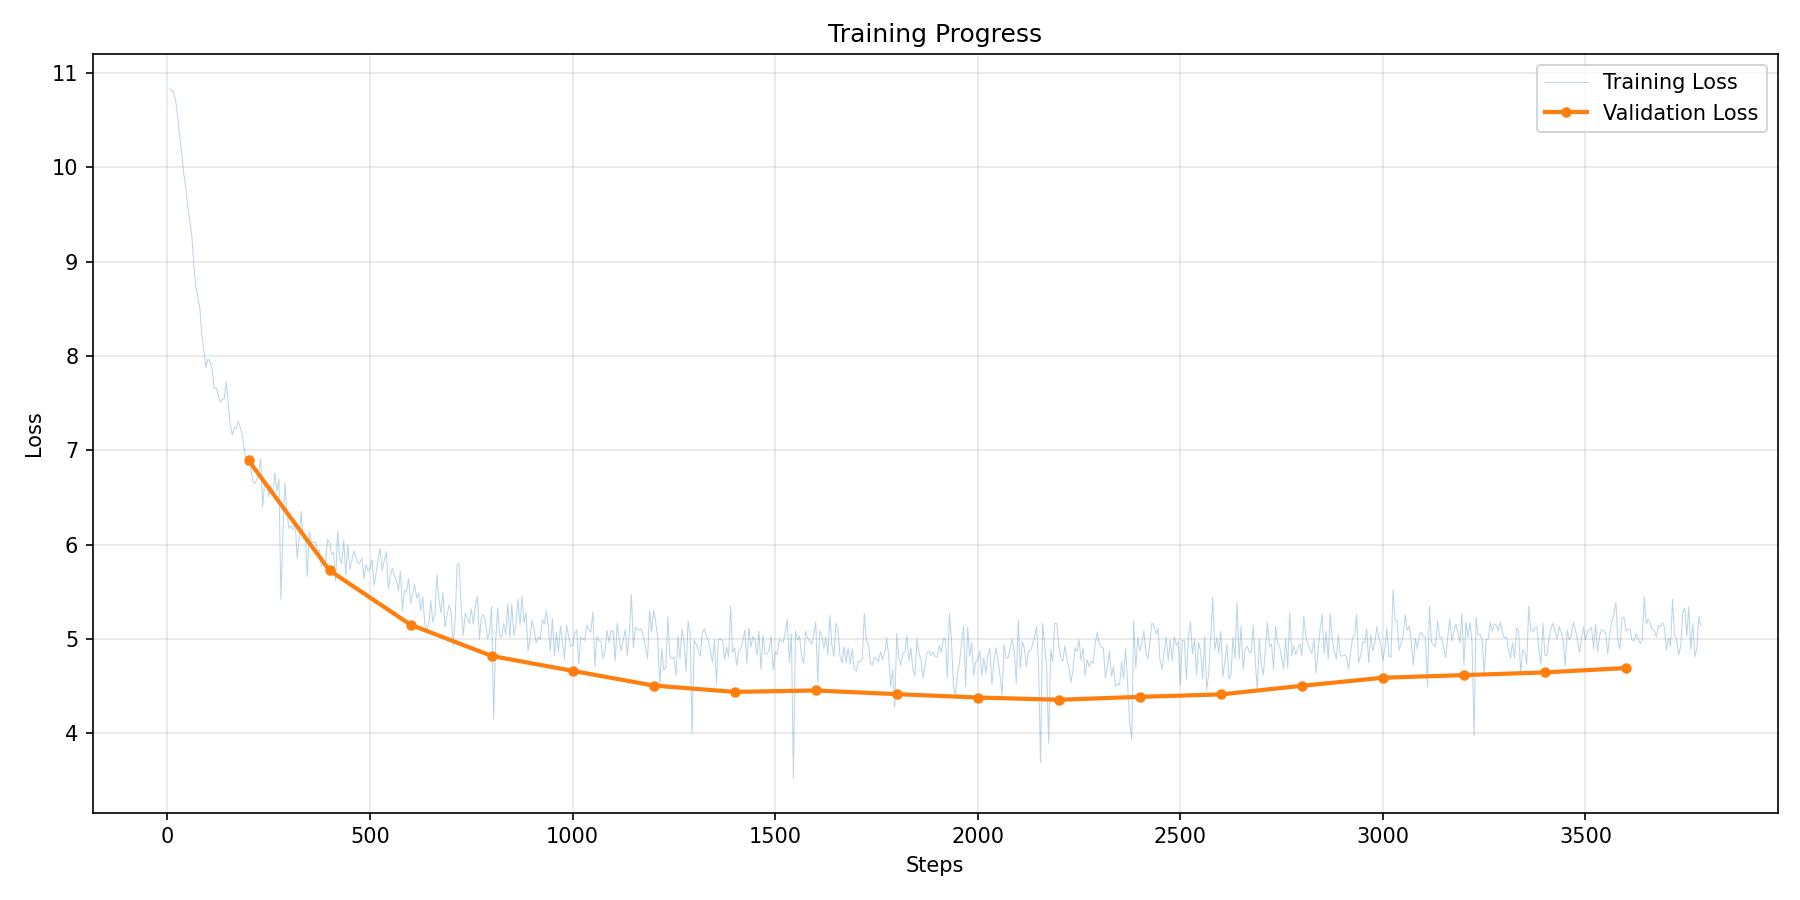
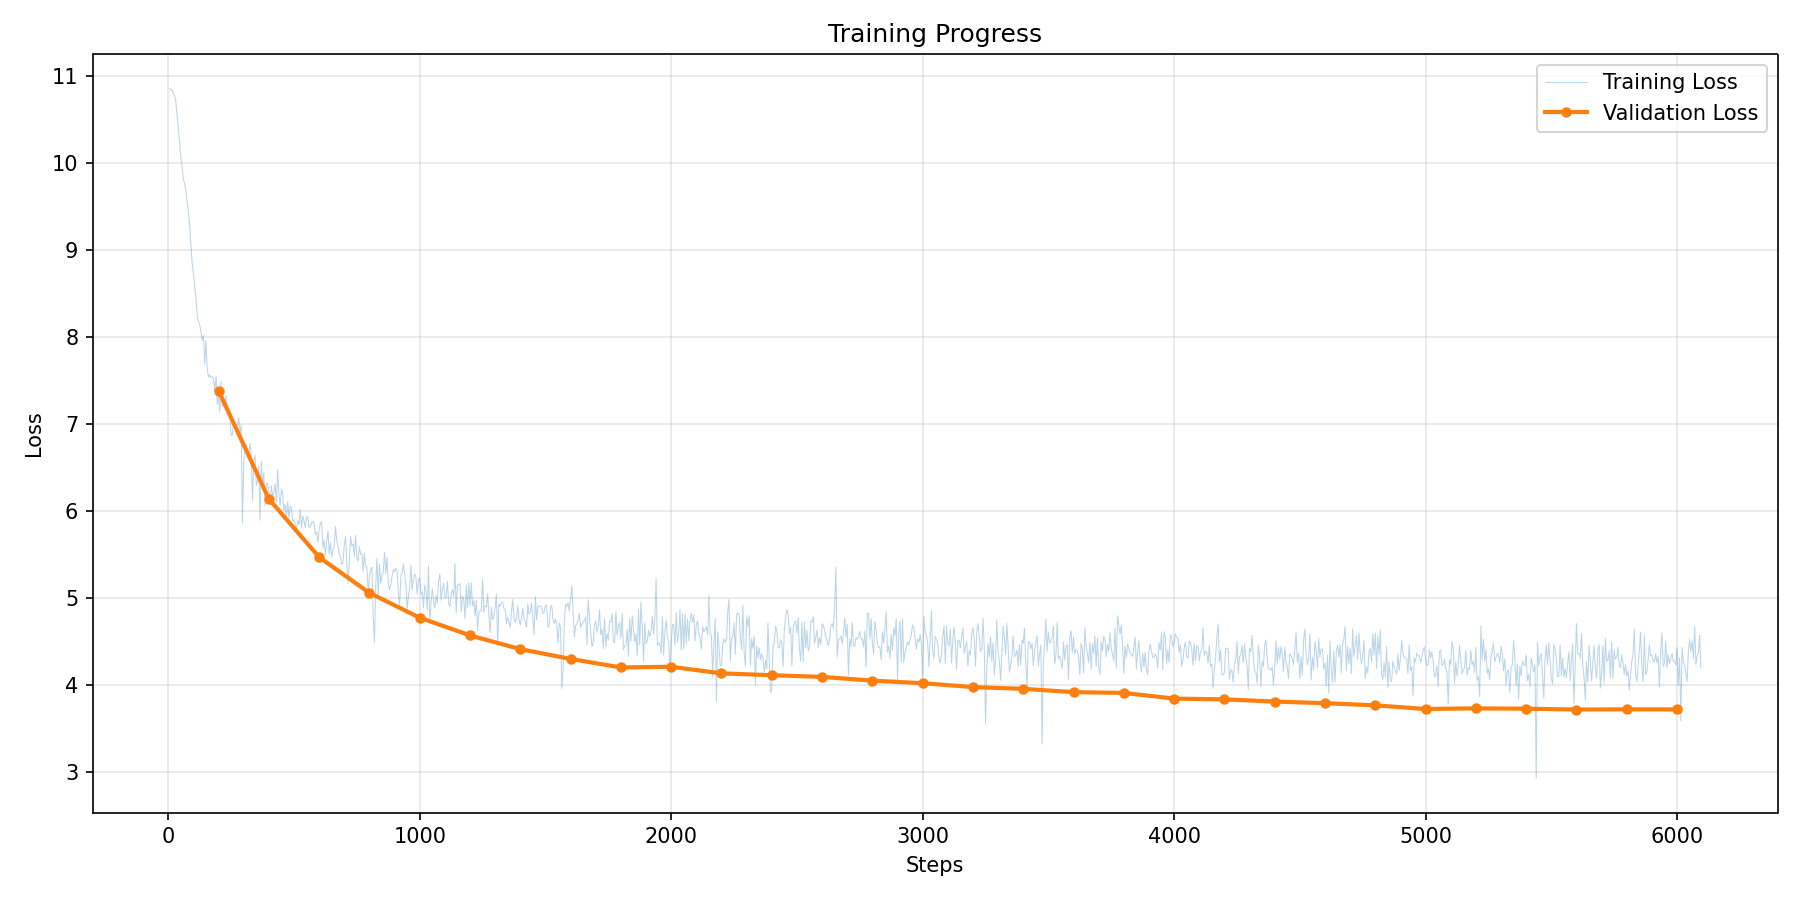
Add chat.py and graph.py; update generate.py and loss_curve.png
Amp-Thread-ID: https://ampcode.com/threads/T-019c5e38-5714-74bf-8ea0-f44ccb53756e

diff --git a/chat.py b/chat.py
@@ -1,0 +1,302 @@
+#!/usr/bin/env python3
+"""
+Inference script for Ternary Transformer.
+
+Usage:
+    # Single prompt
+    python chat.py --checkpoint checkpoints/500m/step_5800 --prompt "Once upon a time"
+
+    # Interactive chat
+    python chat.py --checkpoint checkpoints/500m/step_5800 --interactive
+
+    # With sampling params
+    python chat.py --checkpoint checkpoints/500m/step_5800 --prompt "Hello" \
+        --temperature 0.7 --top-p 0.9 --top-k 50 --max-tokens 256
+"""
+
+import argparse
+import sys
+import time
+
+import mlx.core as mx
+
+from src.config import ModelConfig
+from src.model import TernaryTransformer, create_model
+from src.checkpoint import load_checkpoint
+from data.dataloader import get_tokenizer
+
+
+# GPT-2 end-of-text token
+EOT_TOKEN = 50256
+
+
+def load_model(checkpoint_path: str) -> TernaryTransformer:
+    """Load model from a checkpoint directory."""
+    state = load_checkpoint(checkpoint_path)
+    config = state["config"]
+    model = create_model(config)
+    load_checkpoint(checkpoint_path, model=model)
+
+    # Respect the training config's ternary schedule — if ternary was never
+    # activated during training, don't enable it at inference either.
+    training_config = state.get("training_config")
+    step = state.get("step", 0)
+    if training_config and step < training_config.ternary_skip_steps:
+        model.set_ternary_enabled(False)
+    else:
+        model.set_ternary_enabled(True)
+        model.set_ternary_strength(1.0)
+
+    return model, config
+
+
+def generate_streaming(
+    model: TernaryTransformer,
+    tokenizer,
+    prompt: str,
+    max_new_tokens: int,
+    temperature: float = 0.3,
+    top_k: int = 40,
+    top_p: float = 0.9,
+):
+    """Generate tokens one at a time, printing as they're produced."""
+    # Print prompt in dim color, then generate in default color
+    sys.stdout.write(f"\033[2m{prompt}\033[0m")
+    sys.stdout.flush()
+
+    input_ids = tokenizer.encode(prompt)
+    tokens = mx.array([input_ids])
+    cache = None
+
+    # Prefill: run the full prompt through the model
+    logits, cache = model(tokens, cache=None, training=False)
+    mx.eval(logits, cache)
+
+    generated_tokens = []
+
+    for _ in range(max_new_tokens):
+        # Sample from the last position's logits
+        next_logits = logits[:, -1, :].astype(mx.float32)
+
+        # Temperature
+        if temperature > 0:
+            next_logits = next_logits / temperature
+        else:
+            # Greedy
+            next_token = mx.argmax(next_logits, axis=-1, keepdims=True)
+            token_id = next_token.item()
+            if token_id == EOT_TOKEN:
+                break
+            generated_tokens.append(token_id)
+            sys.stdout.write(tokenizer.decode([token_id]))
+            sys.stdout.flush()
+            tokens = next_token
+            logits, cache = model(tokens, cache=cache, training=False)
+            mx.eval(logits, cache)
+            continue
+
+        # Top-k filtering
+        if top_k > 0:
+            k = min(top_k, next_logits.shape[-1])
+            top_k_vals = mx.topk(next_logits, k=k)
+            # Threshold: everything below the k-th largest gets -inf
+            threshold = mx.min(top_k_vals, axis=-1, keepdims=True)
+            next_logits = mx.where(next_logits < threshold, float("-inf"), next_logits)
+
+        # Top-p (nucleus) filtering
+        if top_p < 1.0:
+            sorted_indices = mx.argsort(next_logits, axis=-1)[:, ::-1]
+            sorted_logits = mx.take_along_axis(next_logits, sorted_indices, axis=-1)
+            sorted_probs = mx.softmax(sorted_logits, axis=-1)
+            cumsum_probs = mx.cumsum(sorted_probs, axis=-1)
+
+            # Mask tokens whose cumulative prob exceeds top_p (keep at least 1)
+            sorted_mask = mx.concatenate(
+                [mx.zeros_like(cumsum_probs[:, :1]), (cumsum_probs[:, :-1] >= top_p)],
+                axis=-1,
+            )
+            sorted_logits = mx.where(sorted_mask, float("-inf"), sorted_logits)
+
+            # Unsort back to original vocab order
+            unsort_indices = mx.argsort(sorted_indices, axis=-1)
+            next_logits = mx.take_along_axis(sorted_logits, unsort_indices, axis=-1)
+
+        # Sample
+        probs = mx.softmax(next_logits, axis=-1)
+        next_token = mx.random.categorical(mx.log(probs + 1e-10))
+        next_token = next_token[:, None]
+        token_id = next_token.item()
+
+        if token_id == EOT_TOKEN:
+            break
+
+        generated_tokens.append(token_id)
+        sys.stdout.write(tokenizer.decode([token_id]))
+        sys.stdout.flush()
+
+        # Next step with KV cache
+        tokens = next_token
+        logits, cache = model(tokens, cache=cache, training=False)
+        mx.eval(logits, cache)
+
+    print()  # Final newline
+    return generated_tokens
+
+
+def interactive_mode(model, tokenizer, config, args):
+    """Multi-turn interactive CLI chat."""
+    max_ctx = config.max_seq_len
+    print(f"Interactive mode (context window: {max_ctx} tokens). Type 'quit' or Ctrl-C to exit.\n")
+
+    history_tokens = []
+
+    while True:
+        try:
+            user_input = input("You: ").strip()
+        except (EOFError, KeyboardInterrupt):
+            print("\nBye!")
+            break
+
+        if not user_input:
+            continue
+        if user_input.lower() in ("quit", "exit"):
+            print("Bye!")
+            break
+
+        new_tokens = tokenizer.encode(user_input)
+        history_tokens.extend(new_tokens)
+
+        # Truncate history to fit within context window (leave room for generation)
+        max_gen = args.max_tokens if args.max_tokens else max_ctx
+        max_prompt = max_ctx - min(max_gen, max_ctx // 2)
+        if len(history_tokens) > max_prompt:
+            history_tokens = history_tokens[-max_prompt:]
+
+        print("Model: ", end="", flush=True)
+
+        tokens = mx.array([history_tokens])
+        cache = None
+        logits, cache = model(tokens, cache=None, training=False)
+        mx.eval(logits, cache)
+
+        gen_count = 0
+        gen_limit = min(max_gen, max_ctx - len(history_tokens))
+        response_tokens = []
+
+        for _ in range(gen_limit):
+            next_logits = logits[:, -1, :].astype(mx.float32)
+
+            if args.temperature > 0:
+                next_logits = next_logits / args.temperature
+            else:
+                next_token = mx.argmax(next_logits, axis=-1, keepdims=True)
+                token_id = next_token.item()
+                if token_id == EOT_TOKEN:
+                    break
+                response_tokens.append(token_id)
+                sys.stdout.write(tokenizer.decode([token_id]))
+                sys.stdout.flush()
+                logits, cache = model(next_token, cache=cache, training=False)
+                mx.eval(logits, cache)
+                gen_count += 1
+                continue
+
+            # Top-k
+            if args.top_k > 0:
+                k = min(args.top_k, next_logits.shape[-1])
+                top_k_vals = mx.topk(next_logits, k=k)
+                threshold = mx.min(top_k_vals, axis=-1, keepdims=True)
+                next_logits = mx.where(next_logits < threshold, float("-inf"), next_logits)
+
+            # Top-p
+            if args.top_p < 1.0:
+                sorted_indices = mx.argsort(next_logits, axis=-1)[:, ::-1]
+                sorted_logits = mx.take_along_axis(next_logits, sorted_indices, axis=-1)
+                sorted_probs = mx.softmax(sorted_logits, axis=-1)
+                cumsum_probs = mx.cumsum(sorted_probs, axis=-1)
+                sorted_mask = mx.concatenate(
+                    [mx.zeros_like(cumsum_probs[:, :1]), (cumsum_probs[:, :-1] >= args.top_p)],
+                    axis=-1,
+                )
+                sorted_logits = mx.where(sorted_mask, float("-inf"), sorted_logits)
+                unsort_indices = mx.argsort(sorted_indices, axis=-1)
+                next_logits = mx.take_along_axis(sorted_logits, unsort_indices, axis=-1)
+
+            probs = mx.softmax(next_logits, axis=-1)
+            next_token = mx.random.categorical(mx.log(probs + 1e-10))
+            next_token = next_token[:, None]
+            token_id = next_token.item()
+
+            if token_id == EOT_TOKEN:
+                break
+
+            response_tokens.append(token_id)
+            sys.stdout.write(tokenizer.decode([token_id]))
+            sys.stdout.flush()
+
+            logits, cache = model(next_token, cache=cache, training=False)
+            mx.eval(logits, cache)
+            gen_count += 1
+
+        print()  # Newline after response
+        history_tokens.extend(response_tokens)
+
+
+def main():
+    parser = argparse.ArgumentParser(description="Run inference with a trained Ternary Transformer")
+    parser.add_argument("--checkpoint", type=str, required=True,
+                        help="Path to checkpoint directory (e.g. checkpoints/500m/step_5800)")
+    parser.add_argument("--prompt", type=str, default=None,
+                        help="Text prompt for single-shot generation")
+    parser.add_argument("--interactive", action="store_true",
+                        help="Launch multi-turn interactive chat")
+    parser.add_argument("--temperature", type=float, default=0.3,
+                        help="Sampling temperature (default: 0.3, 0 = greedy)")
+    parser.add_argument("--top-p", type=float, default=0.9,
+                        help="Nucleus sampling threshold (default: 0.9)")
+    parser.add_argument("--top-k", type=int, default=40,
+                        help="Top-k filtering (default: 40, 0 = disabled)")
+    parser.add_argument("--max-tokens", type=int, default=None,
+                        help="Max tokens to generate (default: fill context window)")
+    args = parser.parse_args()
+
+    if not args.prompt and not args.interactive:
+        parser.error("Specify either --prompt or --interactive")
+
+    # Load model
+    print(f"Loading checkpoint from {args.checkpoint}...")
+    model, config = load_model(args.checkpoint)
+
+    total_params = model.count_parameters().get("total", 0)
+    print(f"Model loaded: {total_params / 1e6:.1f}M parameters, context {config.max_seq_len} tokens")
+
+    # Tokenizer
+    tokenizer = get_tokenizer()
+
+    # Default max tokens = full context window minus prompt
+    if args.max_tokens is None:
+        max_tokens = config.max_seq_len
+    else:
+        max_tokens = args.max_tokens
+
+    if args.interactive:
+        interactive_mode(model, tokenizer, config, args)
+    else:
+        start = time.time()
+        gen_tokens = generate_streaming(
+            model=model,
+            tokenizer=tokenizer,
+            prompt=args.prompt,
+            max_new_tokens=max_tokens,
+            temperature=args.temperature,
+            top_k=args.top_k,
+            top_p=args.top_p,
+        )
+        elapsed = time.time() - start
+        n = len(gen_tokens)
+        if n > 0:
+            print(f"\n[{n} tokens in {elapsed:.1f}s — {n / elapsed:.1f} tok/s]")
+
+
+if __name__ == "__main__":
+    main()

diff --git a/generate.py b/generate.py
@@ -22,14 +22,7 @@ from data.dataloader import get_tokenizer
 
 def sample_top_p(logits: mx.array, top_p: float) -> mx.array:
     """
-    Nucleus (top-p) sampling - FAST MLX version.
-    
-    Args:
-        logits: Shape (vocab_size,) - logits for next token
-        top_p: Cumulative probability threshold
-        
-    Returns:
-        Filtered logits with low-probability tokens set to -inf
+    Nucleus (top-p) sampling - FIXED version.
     """
     # Convert to probabilities
     probs = mx.softmax(logits, axis=-1)
@@ -41,26 +34,20 @@ def sample_top_p(logits: mx.array, top_p: float) -> mx.array:
     # Cumulative sum
     cumsum_probs = mx.cumsum(sorted_probs, axis=-1)
     
-    # Find cutoff: keep tokens until cumsum exceeds top_p
-    # But always keep at least the first token
-    cutoff_idx = mx.argmax((cumsum_probs > top_p).astype(mx.int32))
-    if cutoff_idx.item() == 0:
-        # If first token already exceeds top_p, keep it anyway
-        cutoff_idx = mx.array(1)
+    # Find where cumsum first exceeds top_p
+    # Keep all tokens UP TO AND INCLUDING this point
+    remove_mask = cumsum_probs > top_p
     
-    # Create mask for tokens to keep
-    keep_mask = mx.arange(len(probs)) <= cutoff_idx
+    # Shift right by 1 to keep the first token that crosses threshold
+    if len(remove_mask) > 1:
+        remove_mask = mx.concatenate([mx.array([False]), remove_mask[:-1]])
     
     # Apply mask in sorted order
     sorted_logits = logits[sorted_indices]
-    sorted_logits = mx.where(keep_mask, sorted_logits, -float('inf'))
+    sorted_logits = mx.where(remove_mask, -float('inf'), sorted_logits)
     
-    # Scatter back to original order using fancy indexing
-    # This is the key: we need to unsort the filtered logits
-    result = mx.zeros_like(logits) - float('inf')
-    # MLX supports scatter through index assignment in a roundabout way
-    # We'll use the fact that sorted_indices tells us where each position goes
-    scatter_indices = mx.argsort(sorted_indices)  # Inverse permutation
+    # Scatter back to original order
+    scatter_indices = mx.argsort(sorted_indices)
     result = sorted_logits[scatter_indices]
     
     return result

diff --git a/graph.py b/graph.py
@@ -1,0 +1,34 @@
+import re
+import matplotlib.pyplot as plt
+
+with open('training.log', 'r') as f:
+    lines = f.readlines()
+
+train_steps, train_losses = [], []
+val_steps, val_losses = [], []
+
+for line in lines:
+    # Match training loss: 'Step   1760 | Loss: 4.8631'
+    train_match = re.search(r'Step\s+(\d+)\s+\|\s+Loss:\s+([\d.]+)', line)
+    if train_match:
+        train_steps.append(int(train_match.group(1)))
+        train_losses.append(float(train_match.group(2)))
+    
+    # Match validation loss: '  Val Loss: 4.4150'
+    val_match = re.search(r'Val Loss:\s+([\d.]+)', line)
+    if val_match and train_steps:
+        val_steps.append(train_steps[-1])  # Use last training step
+        val_losses.append(float(val_match.group(1)))
+
+plt.figure(figsize=(12, 6))
+plt.plot(train_steps, train_losses, alpha=0.3, label='Training Loss', linewidth=0.5)
+plt.plot(val_steps, val_losses, 'o-', label='Validation Loss', linewidth=2, markersize=4)
+plt.xlabel('Steps')
+plt.ylabel('Loss')
+plt.title('Training Progress')
+plt.legend()
+plt.grid(True, alpha=0.3)
+plt.tight_layout()
+plt.savefig('loss_curve.png', dpi=150)
+print('Saved to loss_curve.png')
+plt.show()
